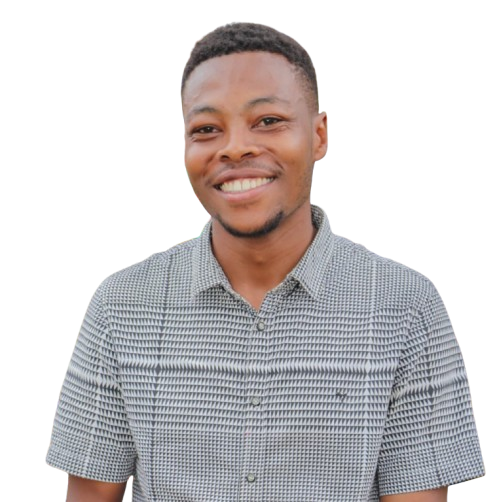
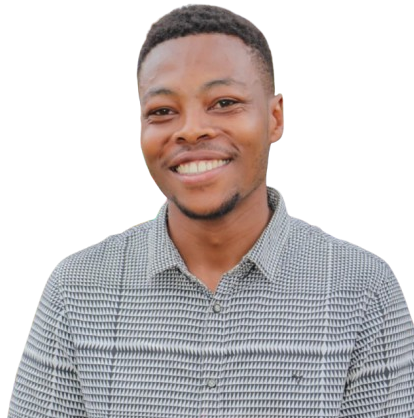
About Modification

diff --git a/templates/about.html b/templates/about.html
@@ -15,11 +15,11 @@
   }
   
   .profile-image {
-    width: 180px;
-    height: 180px;
+    width: 280px;
+    height: 280px;
     border-radius: 50%;
     object-fit: cover;
-    border: 3px solid #007bff;
+    border: 0px solid #007bff;
     box-shadow: 0 4px 8px rgba(0, 0, 0, 0.1);
   }
 
